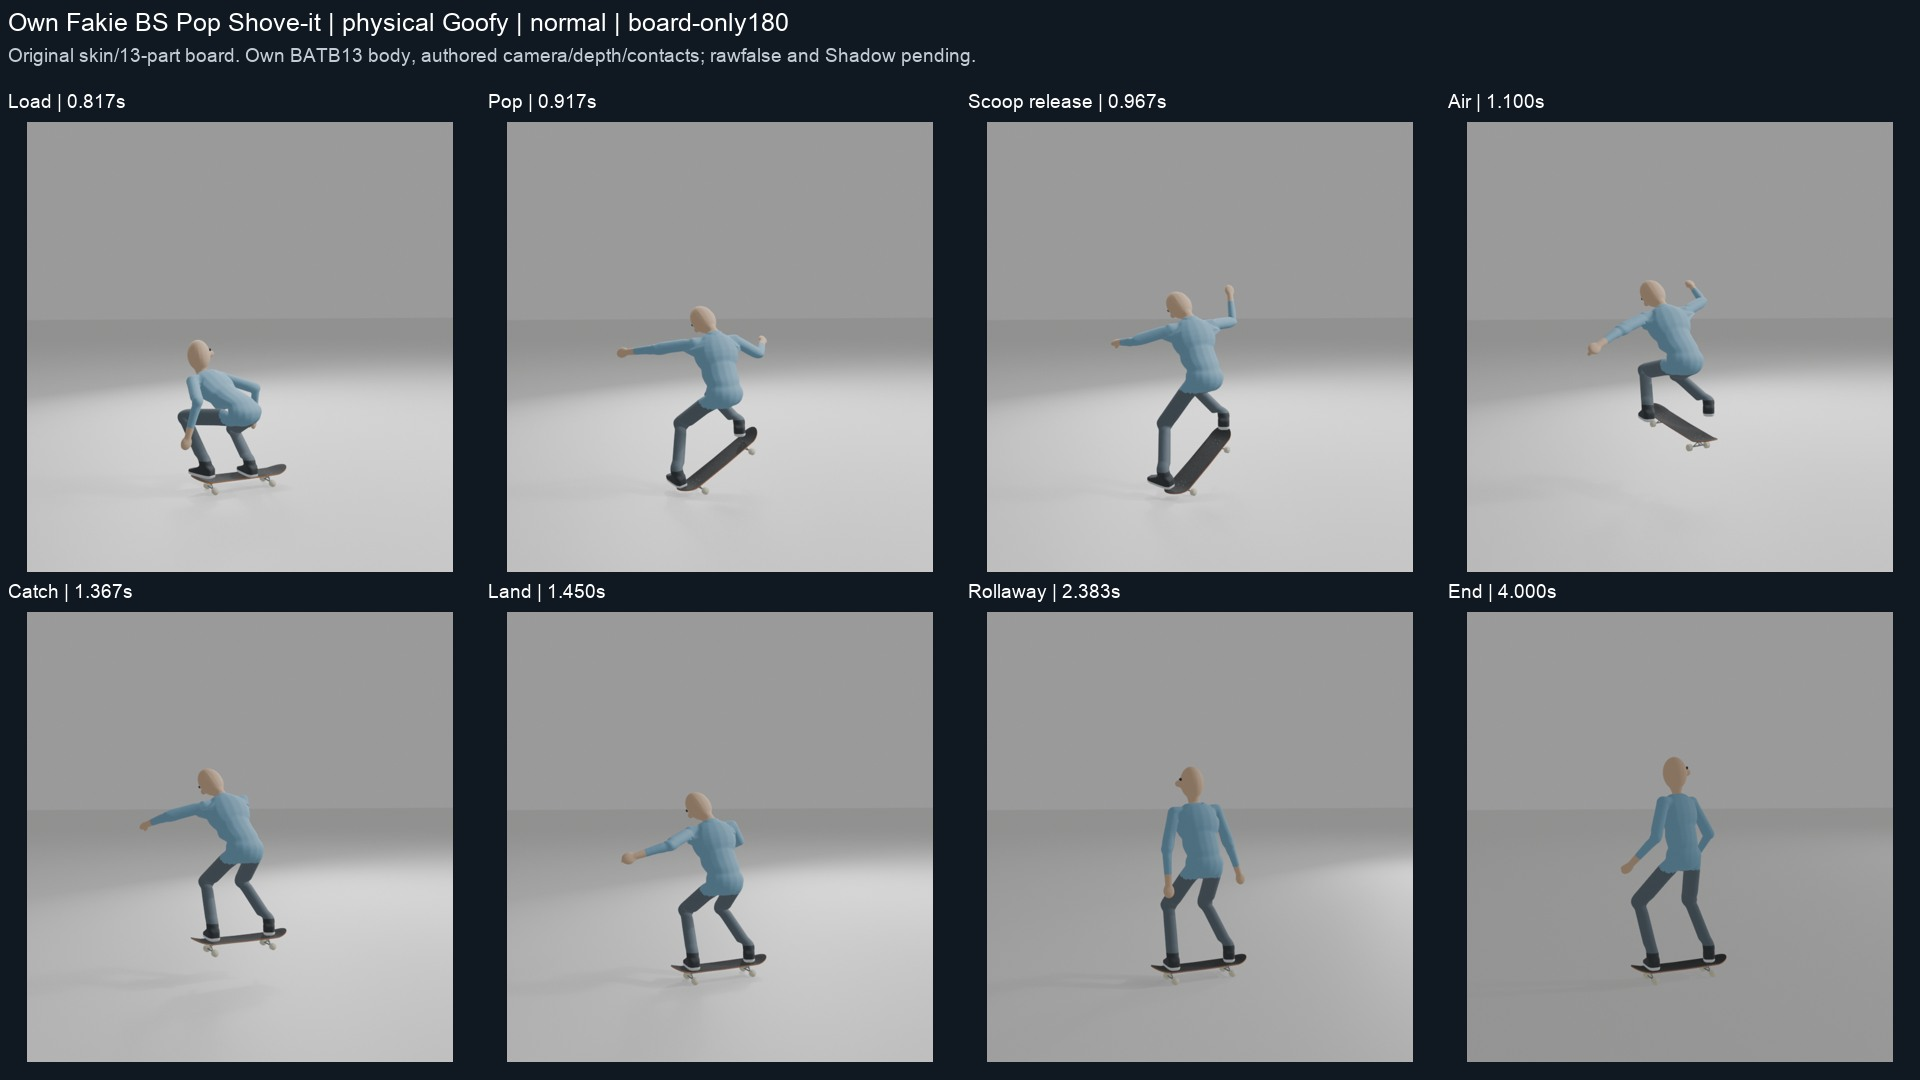
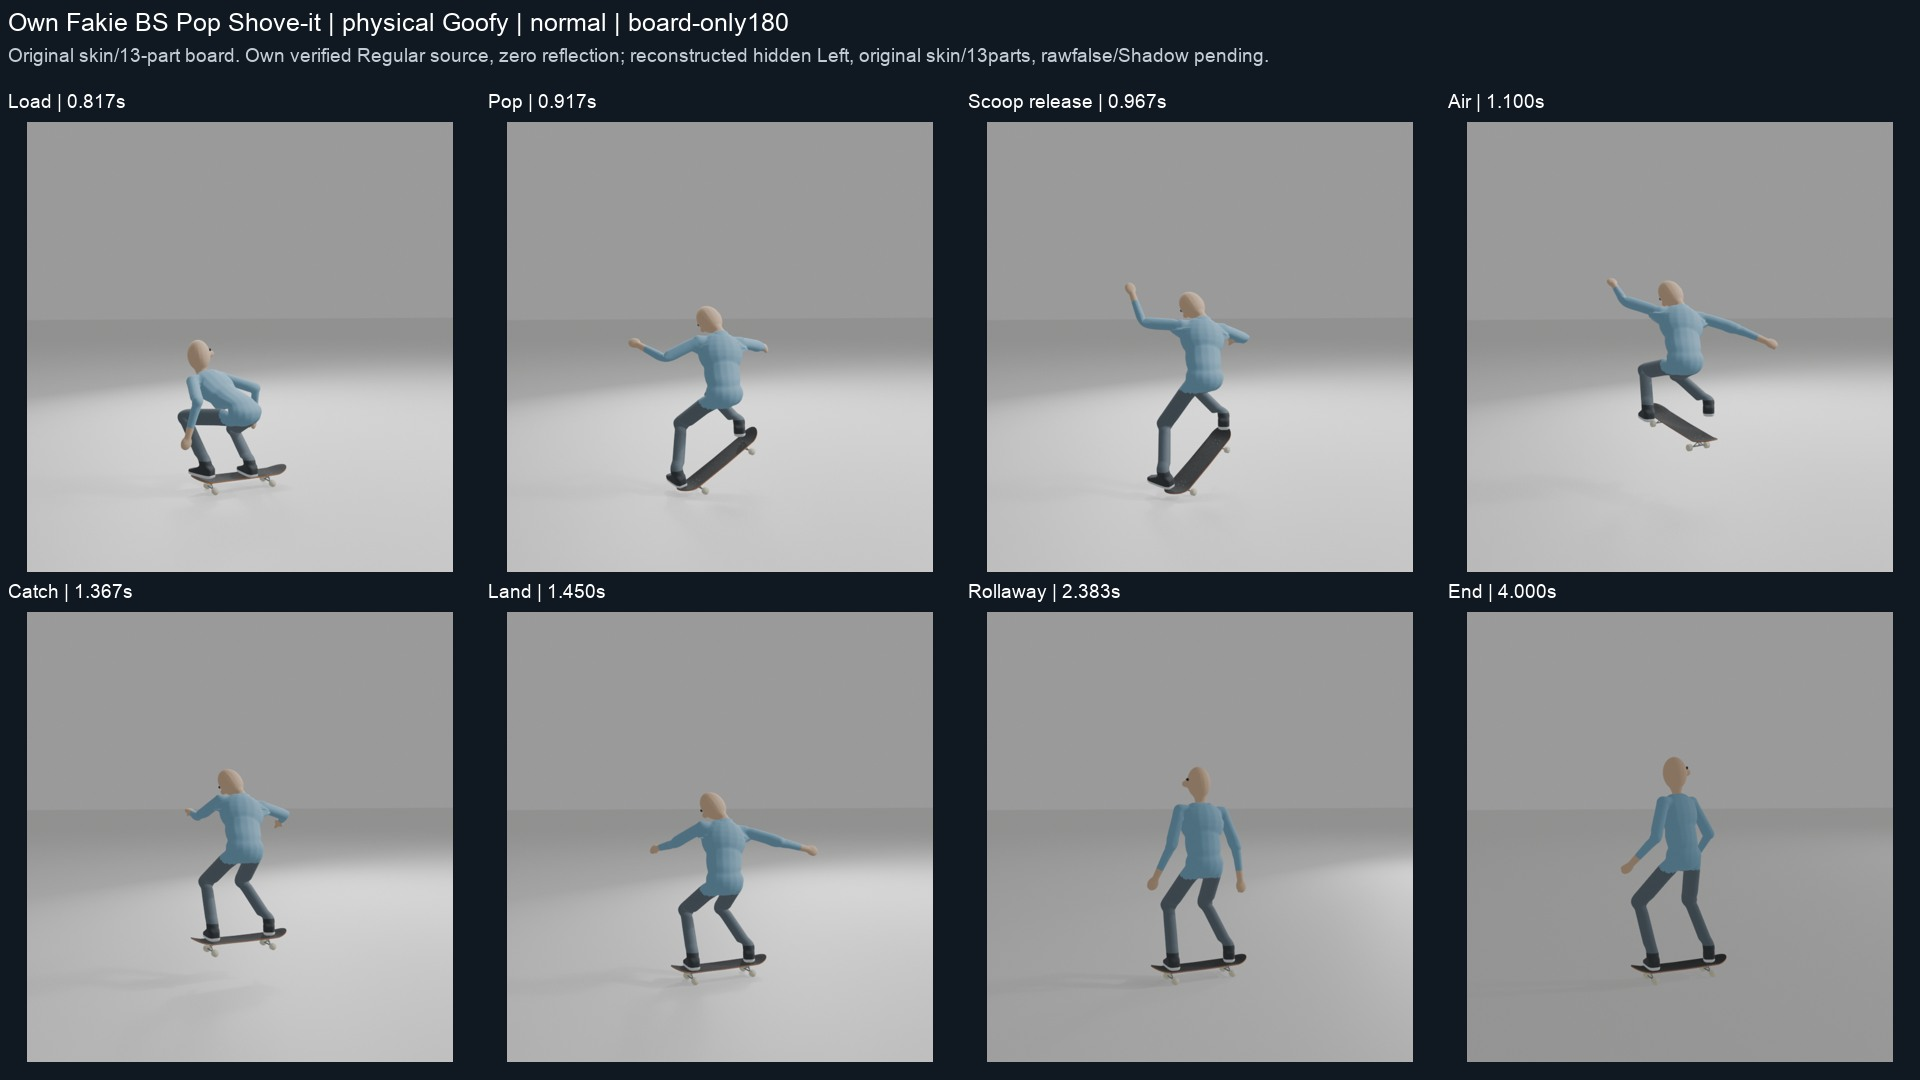
Correct Fakie BS source anatomy and balance-arm ownership (#721)
* fix(skate): preserve actual Fakie BS source anatomy

* docs(skate): refresh Fakie BS anatomy review media

---------

diff --git a/scripts/author_skate_fakie_bs_pop_shove.py b/scripts/author_skate_fakie_bs_pop_shove.py
@@ -152,10 +152,10 @@ def bake(body_raw, controls):
     if geometry.digest(body_raw) != s['sourceBodySha256']:
         raise ValueError('Own Fakie BS shove body binding differs')
     c = json.loads(body_raw)
-    if (c['firstSourceFrame'], c['lastSourceFrame'], c['filmedStance'], c['canonicalStance'], c['reviewed']) != (923, 1006, 'goofy', 'regular', False):
+    if (c['firstSourceFrame'], c['lastSourceFrame'], c['filmedStance'], c['canonicalStance'], c['reviewed']) != (923, 1006, 'regular', 'regular', False):
         raise ValueError('Use only the own unreviewed BATB13 black Fakie take')
-    if c['sourceVideoSha256'] != s['sourceVideoSha256'] or not c['sourceReflectionAppliedOnce']:
-        raise ValueError('Own bounded video / one-time anatomical reflection differs')
+    if c['sourceVideoSha256'] != s['sourceVideoSha256'] or c['sourceReflectionAppliedOnce'] or c.get('sourceReflectionCount') != 0:
+        raise ValueError('Own video / verified zero-reflection Regular anatomy differs')
     for name, expected in s['geometryCodeSha256'].items():
         if geometry.digest((ROOT / 'scripts' / name).read_bytes()) != expected:
             raise ValueError('Read-only geometry/math helper differs: ' + name)
@@ -191,8 +191,8 @@ def bake(body_raw, controls):
               (s['recovery'], 'recovery', ['LeftFoot', 'RightFoot'])]
     meta = dict(id=s['id'], movementKind=s['movementKind'], reviewed=False,
                 label='Fakie BS Pop Shove-it — own BATB13 body / board-only180 [UNREVIEWED]',
-                authored=True, capturedBody=True, canonicalStance='regular', filmedStance='goofy',
-                sourceReflectionAppliedOnce=True, nativeSignature=s['nativeSignature'],
+                authored=True, capturedBody=True, canonicalStance='regular', filmedStance='regular',
+                sourceReflectionAppliedOnce=False, sourceReflectionCount=0, nativeSignature=s['nativeSignature'],
                 firstSourceFrame=s['firstSourceFrame'], lastSourceFrame=s['lastSourceFrame'], sourceFps=s['sourceFps'],
                 sourceUrl=s['sourceUrl'], sourceAuthor=s['sourceAuthor'],
                 sourceVideoOffsetSeconds=s['sourceCacheOriginalOffsetSeconds'] + s['firstSourceFrame'] / s['sourceFps'],

diff --git a/docs/review-media/a4-fakie-bs-pop-shove/README.md b/docs/review-media/a4-fakie-bs-pop-shove/README.md
@@ -1,25 +1,25 @@
-# A4 Fakie BS Pop Shove-it — own source and rig review
+# A4 Fakie BS Pop Shove-it — corrected own source anatomy
 
-Viewer: [local source/rig comparison](http://127.0.0.1:63761/a4-fakie-bs-pop-shove/).
-Frozen product/source: [3b9046c1b67df534c0c671cdcd30bdc84a520568](https://github.com/Dj-Shortcut/rust-skate-mod/commit/3b9046c1b67df534c0c671cdcd30bdc84a520568).
+Viewer: [current source/rig comparison](http://127.0.0.1:63761/a4-fakie-bs-source-anatomy/).
+Frozen product/source: [364e16cc47fac8318fdae4df53c63d47ae75abeb](https://github.com/Dj-Shortcut/rust-skate-mod/commit/364e16cc47fac8318fdae4df53c63d47ae75abeb).
 
-The black-shirt/cap/tattooed-arm rider in [The Berrics BATB13 Jamie Griffin vs Zach Doelling](https://www.youtube.com/watch?v=tL8Ey9GS0xQ&t=212) supplies the own backwards tail-leading take, bounded decoder923–1006 of the retained181–219s excerpt. The actor cut1007 is excluded. Its actual fps is30000/1001, PTS1001×frame /30000; requested181+PTS is an estimate, not original full-video frames. No source pixels, video, detector output, generated pack, approval file or model weights are included here.
+The black-shirt/cap/tattooed-arm rider in [The Berrics BATB13 Jamie Griffin vs Zach Doelling](https://www.youtube.com/watch?v=tL8Ey9GS0xQ&t=212) supplies the own backwards tail-leading take, bounded decoder923–1006 of the retained181–219s excerpt. Actor cut1007 is excluded. Actual fps is30000/1001, PTS1001×frame /30000; requested181+PTS is an estimate, not original full-video frames. No source pixels, video, detector output, generated pack, approval or model weights are included here.
 
-Manual filmed Goofy-base Fakie/Left-tail inference is declared uncertain without an independent full same-actor normal baseline. One anatomical reflection creates canonical Regular/Right-tail controls. The switch flag never causes a second swap. Each sheet's physical stance comes from animated GLB foot bones against its recorded nose frame, not the input label.
+Original954/956 hip–knee–ankle and heel/toe chains put Right on the low tail and Left toward the raised nose. The tattooed Right arm independently confirms the labels. This is already physical Regular: zero reflection and no anatomical swap supersede715's seeded Goofy guess. The estimated camera basis aligns this take's Right-minus-Left hips with canonical−Z. It never changes native heading, viewer camera or backward Fakie velocity. The source pixels are never mirrored; physical Goofy is a labelled mirrored rig variation. Sheet captions come from animated GLB foot bones against their recorded nose frame.
 
-The board alone makes one backside180: no longitudinal flip, body halfturn or instep flick. The popping shoe is beyond the bolts on the toe-side tail; the other foot lifts straight. Free feet remain in the body/nose frame and catch reversed deck-local ends. Native backwards velocity, a real pure-side Pad flick, observed landing and scoring stay authoritative. The strict actual signature is Ollie/switch=true/tailLeads=true, flip0/shove−180/spin0/body0.
+The board alone makes one backside180: no longitudinal flip, body halfturn or instep flick. Right pops beyond the toe-side tail bolts; Left lifts straight, then both catch reversed deck-local ends. The native signature remains Ollie/switch=true/tailLeads=true, flip0/shove−180/spin0/body0; source board yaw stays+180. All502 lower-body, sole, board, source-clock and event samples are exact to715. All four actual241-frame lower-body/board outputs are likewise unchanged. No physics, scoring, guard or contact-clock adjustment is part of this repair.
 
-Own source torso/arm directions are retained; camera/depth, axes, knees, root/shoes/contacts and gaze are authored reconstruction. The initial representative's steep/seated Pop and face-covering Catch wrist were rejected. The current bounded Pop pressure/extension and canonical Right-arm Catch opening correct those visible faults. Dense source954–957 inspection also shows one real raised original Right/canonical Left arm, while the autograph/QR overlay hides the opposite arm. The genuine raised Left is preserved exactly; only the occluded canonical Right elbow/hand receives bent side balance953.1–957.5, returning before accepted Air957.83 without a rebound. The source clock/yaw/body file, other joints and Land967 onward remain unchanged. The rejected media stays private. All images below show only the current original skin and full13-part skateboard. The fixed source-facing camera is an estimated viewing basis; it never rotates the rider toward travel or improves the pose by changing anatomy.
+The genuine original/canonical Right arm is retained on the correct side. The autograph/QR overlay hides actual Left; its existing953.1–957.5 bent side balance and961.5–967 face-clear Catch reconstruction now target Left, with the corresponding outward direction. Camera/depth, axes, root/shoes/contacts and gaze remain explicitly authored reconstruction. Only this take's84 original VIDEO detections are reused; no A5 or other body is borrowed. The existing gentle Pop/extension, landing and upright recovery are retained. Same-camera before/after sheets show the visible arm-association correction using only the original skin and full13-part skateboard.
 
-Four controlled actual managed Pad/32Hz Step/Land/scorer routes and60Hz body cases pass: normal36/36 captured Air samples per stance, low34/34, one real input pop, no bail, ordinary Ground/capture-off at4s. Original joint/board/shoe/floor guards are unchanged. Mesh exports cover the complete4s, including Load, Pop, scoop release, Air, Catch, Land, upright rollaway and ordinary handoff. All four browser1×/¼× replays reach4s:28 exact decoded-source phase checks,24 Source/Side Pop/release/Catch views and12 Feet-close views pass with zero console/runtime errors. The refreshed current sheets explicitly include the Scoop upper body. They and the focused source/side/feet views have been visually inspected; this remains controlled offline review evidence, not Claude’s verdict or native acceptance.
+Four controlled actual managed Pad/32Hz Step/Land/scorer and60Hz body cases pass: one real input pop, normal36/36 or low34/34 captured Air samples per stance, no bail, ordinary Ground/capture-off at4s. Original joint/board/shoe/floor guards remain strict. All four complete4s original-mesh browser replays reach the end at1× and¼×;28 source phases decode exactly,40 focused Source/Side953–957 views and12 Feet-close checks pass with zero console/runtime errors. The eight current phase/contact sheets and four rig-only before/after sheets were visually inspected. These are controlled review evidence, not Claude's verdict or native acceptance.
 
-Raw source remains `reviewed=false`. Claude owns the library/offline verdict. Native Shadow testing is pending; no fixture/export/CI result promotes it.
+Raw source remains `reviewed=false`. Claude owns the library/offline verdict. Native Shadow testing is pending; fixture/export/CI results do not promote either gate.
 
-| Height / physical stance | Full phases | Feet, Pop and Catch details |
-|---|---|---|
-| Normal / Regular | [phases](normal-regular-phases.jpg) | [contacts/body](normal-regular-contacts.jpg) |
-| Normal / Goofy | [phases](normal-goofy-phases.jpg) | [contacts/body](normal-goofy-contacts.jpg) |
-| Low / Regular | [phases](low-regular-phases.jpg) | [contacts/body](low-regular-contacts.jpg) |
-| Low / Goofy | [phases](low-goofy-phases.jpg) | [contacts/body](low-goofy-contacts.jpg) |
+| Height / physical stance | Full phases | Feet / body | Same-camera715 → corrected |
+|---|---|---|---|
+| Normal / Regular | [phases](normal-regular-phases.jpg) | [contacts](normal-regular-contacts.jpg) | [Scoop / Catch](normal-regular-anatomy-before-after.jpg) |
+| Normal / Goofy | [phases](normal-goofy-phases.jpg) | [contacts](normal-goofy-contacts.jpg) | [Scoop / Catch](normal-goofy-anatomy-before-after.jpg) |
+| Low / Regular | [phases](low-regular-phases.jpg) | [contacts](low-regular-contacts.jpg) | [Scoop / Catch](low-regular-anatomy-before-after.jpg) |
+| Low / Goofy | [phases](low-goofy-phases.jpg) | [contacts](low-goofy-contacts.jpg) | [Scoop / Catch](low-goofy-anatomy-before-after.jpg) |
 
-The adjacent manifest pins the current source pack, actual runtime/source freeze, original skin, four input/GLB hashes, physical-stance audits, phase clocks and eight image hashes. Generated packs/GLBs stay private; regeneration instructions and controls are in the own animation folder.
+The adjacent manifest pins this source pack, exact runtime/source freeze, original skin, four input/GLB hashes, physical-stance audits, phase clocks and12 image hashes. Generated packs/GLBs and the actual-source before/after comparison stay private. Regeneration instructions and controls remain in the own animation folder.

diff --git a/assets/authored/animation/fakie-bs-pop-shove-keyed/README.md b/assets/authored/animation/fakie-bs-pop-shove-keyed/README.md
@@ -4,9 +4,9 @@ The black-shirt/cap/tattooed-arm rider in [BATB13 Jamie Griffin vs Zach Doelling
 
 The retained single-actor decoder window is923–1006, before actor cut1007. Actual cached fps is30000/1001 and PTS1001×frame with time base1/30000. Public181+PTS timestamps are requested-cut estimates; original full-video frames/hash are unknown. The strict detector selected this actor in84/84 frames using15 visually checked source-pixel anchors. This does not certify3D depth, contacts or occluded limbs.
 
-Manual filmed Goofy-base Fakie inference puts the original Left foot on the leading tail and Right nose-side. The bounded excerpt lacks an independent full same-actor normal baseline, so this remains declared inference. Exactly one X reflection plus all anatomical Left/Right pairs creates canonical Regular, Right-tail pop. The switch flag never swaps anatomy a second time; canonical body/nose+Z and backward velocity remain distinct.
+The original954/956 hip–knee–ankle and heel/toe chains show the original Right foot on the low tail and Left foot toward the raised nose. The tattooed Right arm independently confirms the anatomical labels. This is already physical Regular: zero reflection and no Left/Right swap supersede the earlier seeded Goofy guess. The estimated camera basis aligns this take's Right-minus-Left hip axis with canonical−Z. It changes neither native heading nor viewer camera. Canonical body/nose+Z and backward Fakie velocity remain distinct.
 
-Own source torso/arm directions are retained. Estimated panning-camera yaw, coherent hip/shoulder axes, knee/depth ambiguity, root/shoes/contacts and board/landing gaze are authored reconstruction. Raw967's unreliable hip-depth flip is rejected. Dense actual-source954–957 inspection shows one genuine high original Right/canonical Left arm; the autograph/QR overlay hides the opposite original Left/canonical Right arm. The genuine raised Left stays exact. Only the unseen Right elbow/hand receives labelled bent side balance953.1–957.5, then returns before accepted Air957.83. A bounded gentler Pop/brief extension and later Right-arm Catch opening avoid the seated Pop and face-covering wrist. Same-take upright recovery is stabilized against detector jitter. These are visible authored choices, never measured3D claims.
+Only this take's84 original VIDEO detections supply its source torso/limb directions. Estimated panning-camera yaw, coherent hip/shoulder axes, knee/depth ambiguity, root/shoes/contacts and board/landing gaze are authored reconstruction. Raw967's unreliable hip-depth flip is rejected. Dense actual-source954–957 inspection shows one genuine high original/canonical Right arm; the autograph/QR overlay hides the opposite original/canonical Left arm. The genuine Right gesture is retained. The unseen Left elbow/hand receives labelled bent side balance953.1–957.5, returning before Air957.83, and the later face-clear Catch reconstruction likewise belongs to Left. Their existing windows and outward targets are preserved with the corrected anatomical side. The accepted gentler Pop/brief extension, lower body, feet, board, height and recovery clocks remain unchanged. Same-take upright recovery is stabilized against detector jitter. These are visible authored choices, never measured3D claims; no A5 body data is used.
 
 The Right shoe sets up on the toe-side tail beyond the bolts, pops and scoops. Left/front lifts straight without a kickflip/heelflip/instep flick. Free shoes stay in body/nose axes while the deck alone yaws180; catch targets reverse deck-local ends. There is no body halfturn or old Cole/Halfcab motion input. Original shaped-deck/full-shoe clearance, fixed-chain lengths, reach reserve and pressure/floor guards remain strict.
 
@@ -18,6 +18,6 @@ python scripts/author_skate_fakie_bs_pop_shove.py --output context/private/fakie
 
 NumPy is required. The executable pins its own body controls, read-only geometry/math and shaped-board surface. It builds the strict source pack before atomically replacing each output; raw packs remain `reviewed=false`.
 
-The controlled actual managed four-case route passes one real input pop, Fakie Pop Shove-it scoring, normal36/36 and low34/34 captured Air samples in each physical stance, and ordinary Ground/capture-off at4s. Current original-skin/13-part-board exports, all four source-decoded1×/¼× viewer replays and selected Source/Side/Feet views pass. The eight current sheets explicitly show Scoop upper-body balance. [Review media and exact source/runtime pins](../../../../docs/review-media/a4-fakie-bs-pop-shove/README.md) record the frozen result; rejected before media stays private.
+The source-anatomy repair preserves all502 lower-body, sole, board, source-clock and event samples exactly. Four current actual managed routes pass one real input pop, Fakie Pop Shove-it scoring, normal36/36 and low34/34 captured Air samples per physical stance, and ordinary Ground/capture-off at4s. Their241-frame lower-body/board outputs are also exact to the previous frozen version. Current original-skin/13-part-board exports, four source-decoded1×/¼× viewer replays and focused953–957 Source/Side/Feet checks pass. [Current phase/contact and same-camera before/after sheets](../../../../docs/review-media/a4-fakie-bs-pop-shove/README.md) identify the new frozen result. The older successful checks did not establish its incorrect source-anatomy assumption;715's source labels are superseded by this visible correction.
 
 Claude owns the library/offline verdict. Native Shadow acceptance remains pending. Compilation, fixtures, export and browser checks do not promote either gate.
